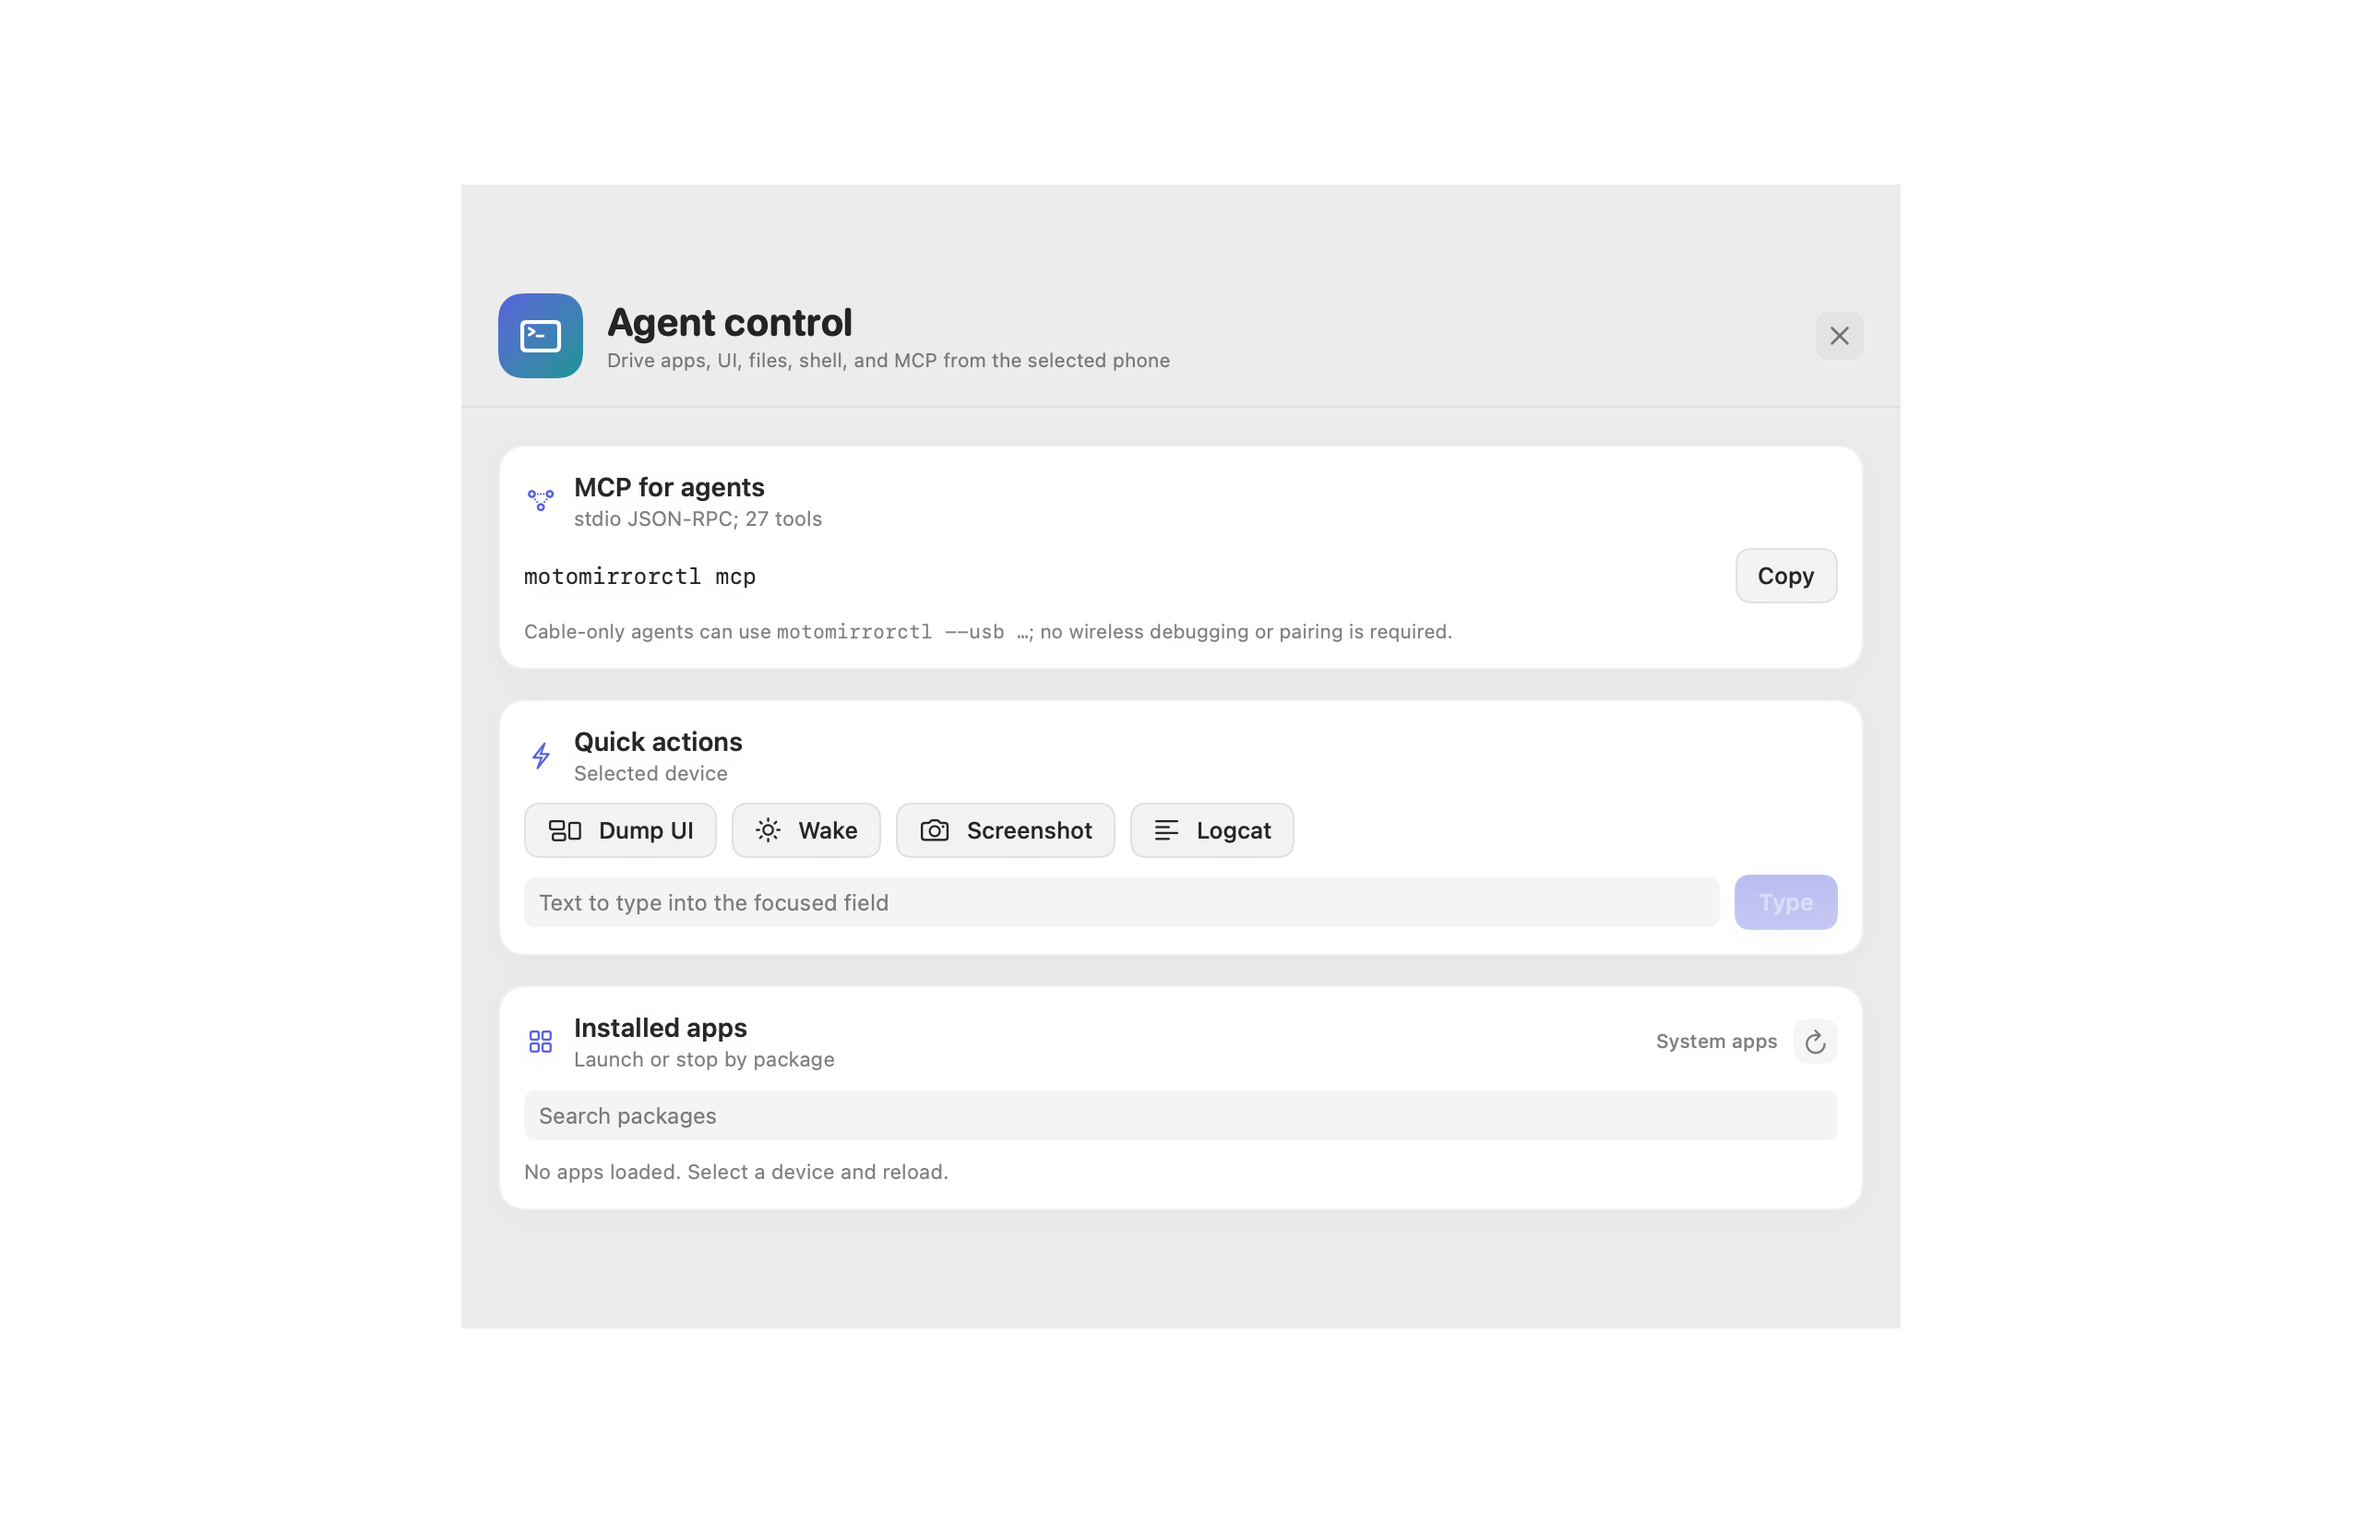
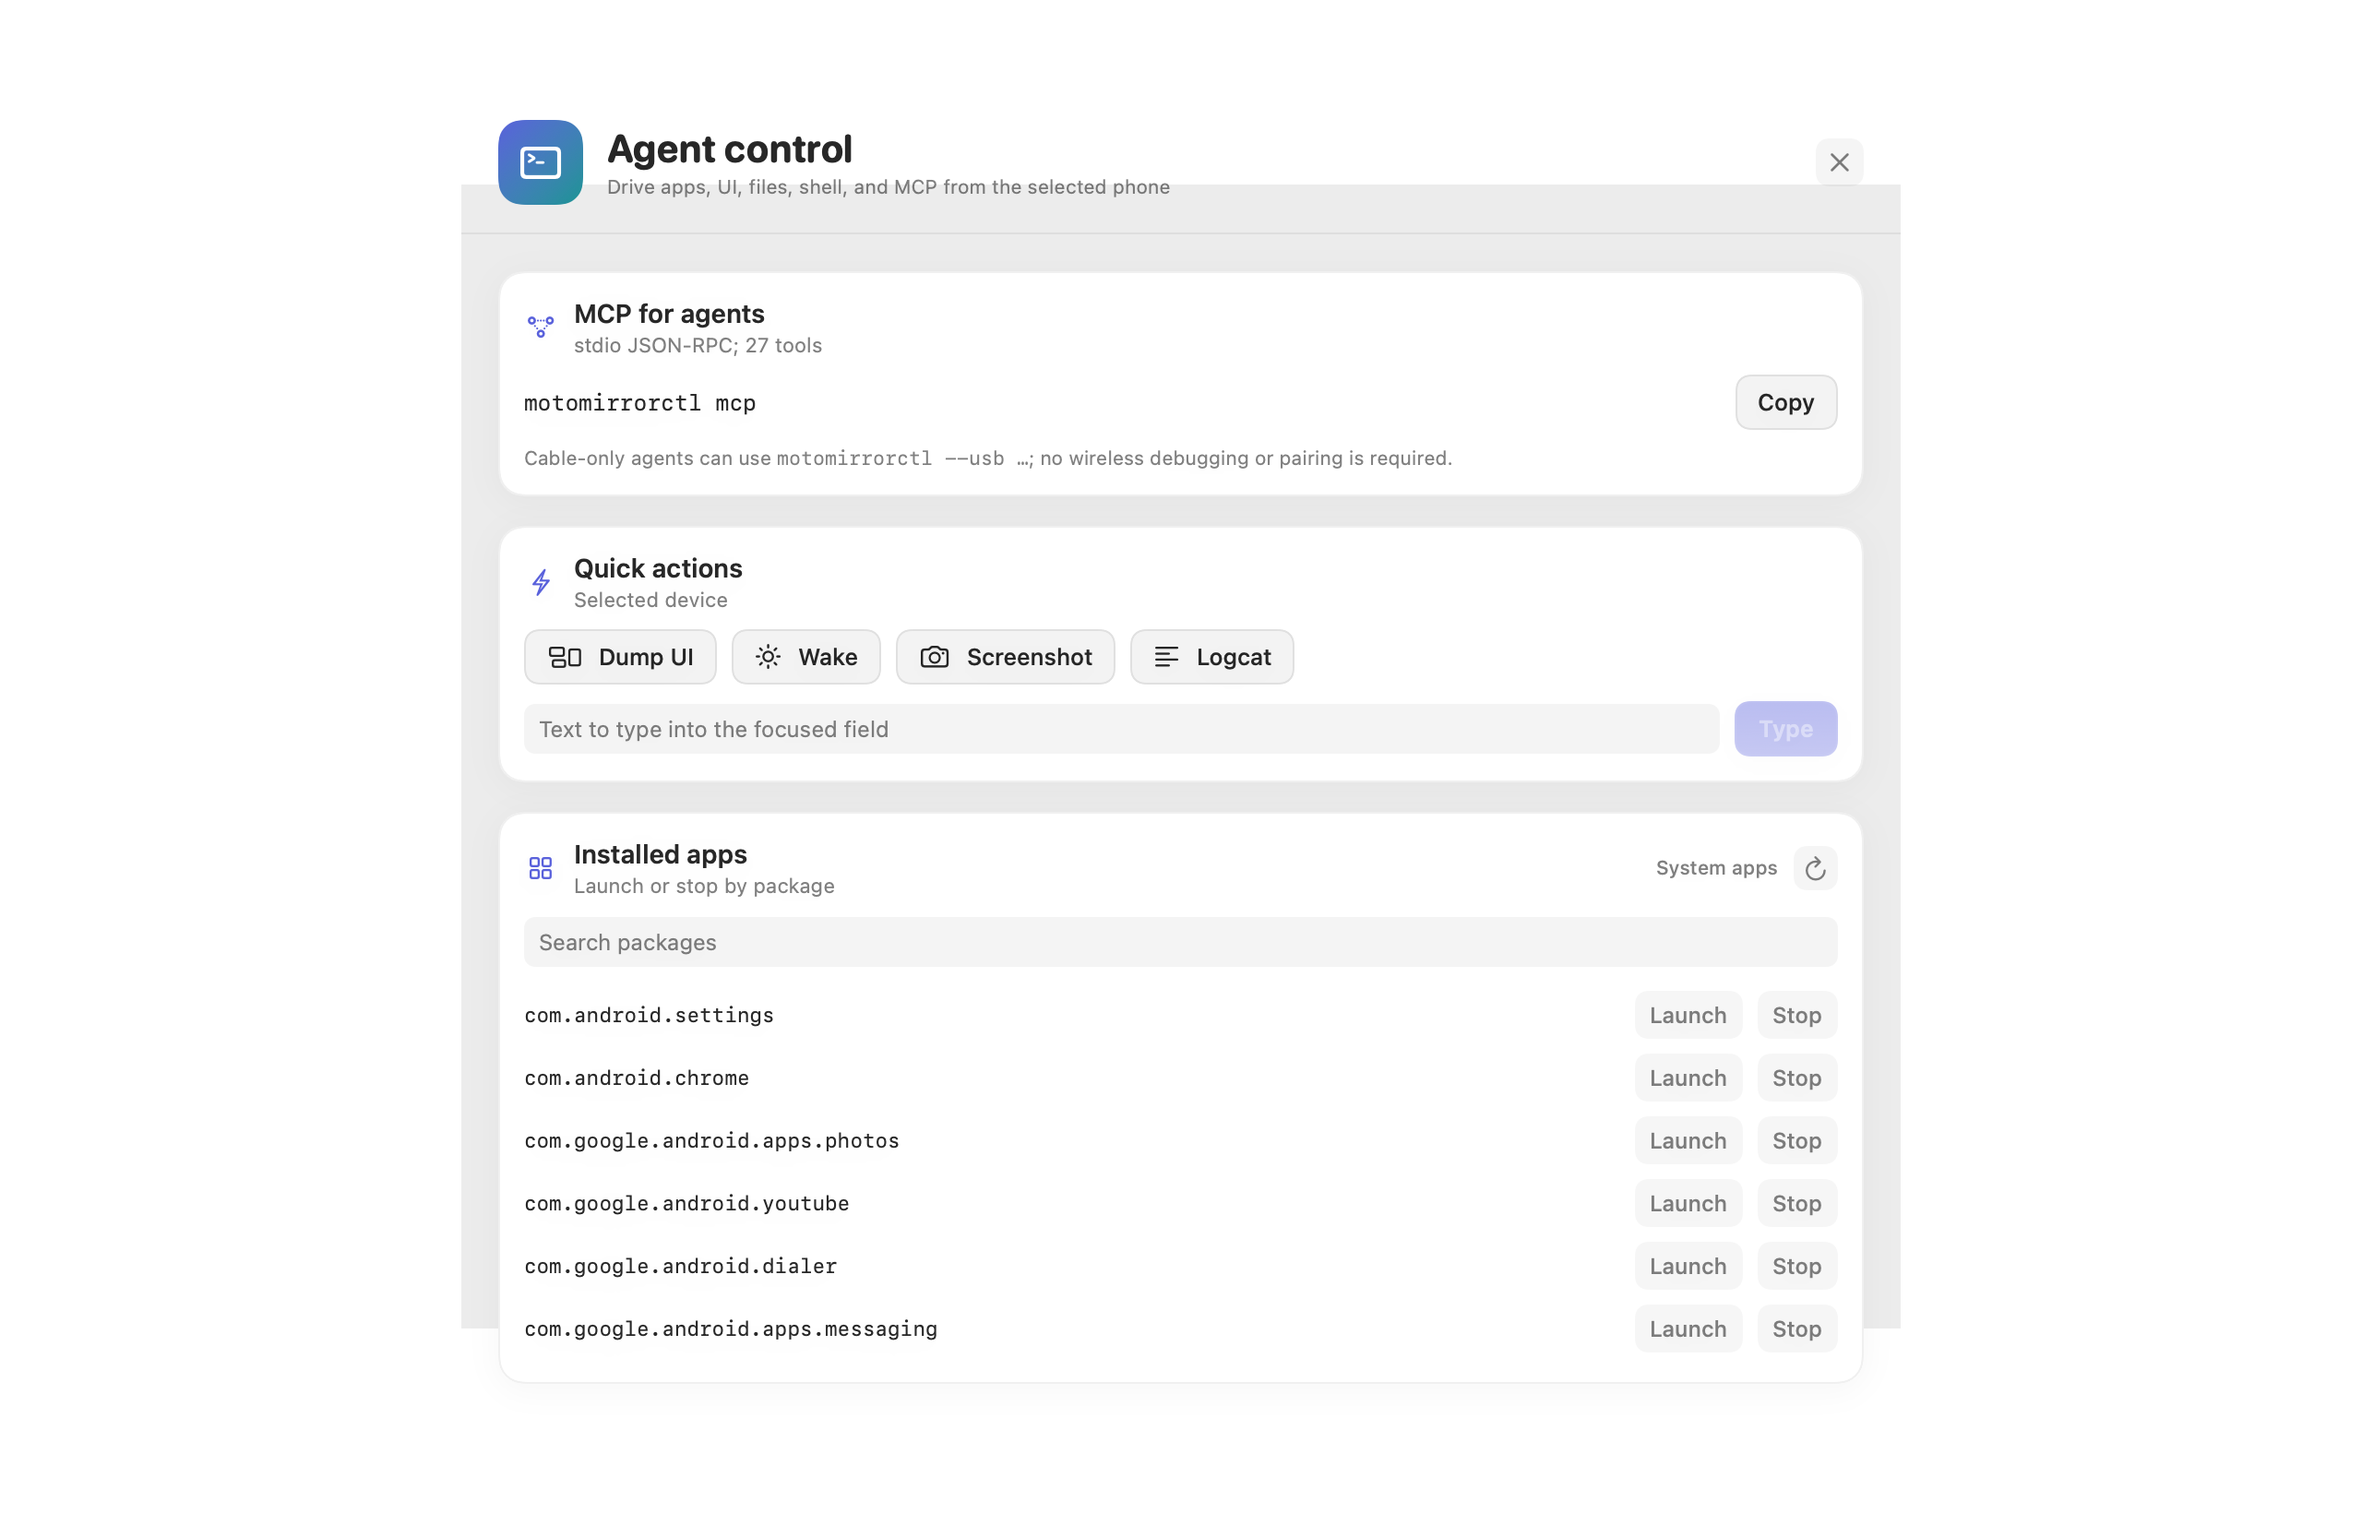
Polish agent panel and 24-check suite

diff --git a/Sources/MotoMirror/AppModel.swift b/Sources/MotoMirror/AppModel.swift
@@ -267,6 +267,14 @@ final class AppModel: ObservableObject {
         case .connected:
             model.selectedSerial = DemoData.phoneSerial
             model.details = demoADB.previewDetails(for: DemoData.phoneSerial)
+            model.installedApps = [
+                InstalledApp(package: "com.android.settings"),
+                InstalledApp(package: "com.android.chrome"),
+                InstalledApp(package: "com.google.android.apps.photos"),
+                InstalledApp(package: "com.google.android.youtube"),
+                InstalledApp(package: "com.google.android.dialer"),
+                InstalledApp(package: "com.google.android.apps.messaging")
+            ]
         case .unauthorized:
             model.selectedSerial = DemoData.phoneSerial
             model.details = nil

diff --git a/verify/agent_features.py b/verify/agent_features.py
@@ -102,52 +102,75 @@ def main():
         current_pkg = None
     record("A02", "apps current returns a package", bool(current_pkg), current.stdout)
 
-    reset_chrome()
-    launched = cli("apps", "launch", "com.android.chrome")
-    wait_chrome = cli("wait-for", "app", "com.android.chrome", "--timeout", "8")
+    ensure_settings_home()
+    launched = cli("apps", "launch", "com.android.settings")
+    wait_settings = cli("wait-for", "app", "com.android.settings", "--timeout", "8")
     current = cli("apps", "current", "--json")
     try:
         current_pkg = json.loads(current.stdout).get("package")
     except Exception:
         current_pkg = None
-    record("A03", "apps launch Chrome", launched.returncode == 0 and wait_chrome.returncode == 0 and current_pkg == "com.android.chrome", launched.stdout + wait_chrome.stdout + current.stdout)
+    record("A03", "apps launch Settings", launched.returncode == 0 and wait_settings.returncode == 0 and current_pkg == "com.android.settings", launched.stdout + wait_settings.stdout + current.stdout)
 
     # 7-12 UI
-    settings_ready = ensure_settings_home()
-    if not settings_ready:
-        raise SystemExit("Settings did not reach the home screen")
-    dump = cli("ui", "dump", "--json")
-    try:
-        elements = json.loads(dump.stdout).get("elements", [])
-    except Exception:
-        elements = []
+    elements = []
+    settings_ready = False
+    for attempt in range(3):
+        settings_ready = ensure_settings_home()
+        dump = cli("ui", "dump", "--json")
+        try:
+            elements = json.loads(dump.stdout).get("elements", [])
+        except Exception:
+            elements = []
+        if settings_ready and len(elements) >= 10:
+            break
+        time.sleep(1)
     record("A04", "ui dump returns elements", settings_ready and len(elements) >= 10, f"settings_ready={settings_ready} elements={len(elements)}")
 
-    found = cli("ui", "find", "--text", "Search settings", "--json")
-    try:
-        matches = json.loads(found.stdout)
-    except Exception:
-        matches = []
+    matches = []
+    for attempt in range(3):
+        ensure_settings_home()
+        found = cli("ui", "find", "--text", "Search settings", "--json")
+        try:
+            matches = json.loads(found.stdout)
+        except Exception:
+            matches = []
+        if matches:
+            break
+        time.sleep(1)
     record("A05", "ui find by text", bool(matches), f"matches={len(matches)}")
 
-    tap = cli("ui", "tap", "--text", "Search settings")
-    record("A06", "ui tap by text", tap.returncode == 0, tap.stdout + tap.stderr)
+    tap = None
+    for attempt in range(3):
+        ensure_settings_home()
+        tap = cli("ui", "tap", "--text", "Search settings")
+        if tap.returncode == 0:
+            break
+        time.sleep(1)
+    record("A06", "ui tap by text", tap is not None and tap.returncode == 0, (tap.stdout + tap.stderr) if tap else "")
 
-    time.sleep(1)
-    ensure_settings_home()
-    tap2 = cli("ui", "tap", "--text", "Search settings")
-    time.sleep(1)
-    adb("shell", "input", "keyevent", "KEYCODE_MOVE_END")
-    for _ in range(30):
-        adb("shell", "input", "keyevent", "KEYCODE_DEL")
-    typed = cli("ui", "text", "motomirror")
-    time.sleep(2)
-    dump2 = cli("ui", "dump", "--json")
-    try:
-        texts = [e.get("text") or "" for e in json.loads(dump2.stdout).get("elements", [])]
-    except Exception:
-        texts = []
-    record("A07", "ui text types into Settings search", typed.returncode == 0 and any("motomirror" in t.lower() for t in texts), f"tap={tap2.stdout.strip()} texts={texts[:8]}")
+    texts = []
+    typed = None
+    tap2 = None
+    for attempt in range(3):
+        ensure_settings_home()
+        tap2 = cli("ui", "tap", "--text", "Search settings")
+        time.sleep(1)
+        adb("shell", "input", "keyevent", "KEYCODE_MOVE_END")
+        for _ in range(30):
+            adb("shell", "input", "keyevent", "KEYCODE_DEL")
+        typed = cli("ui", "text", "motomirror")
+        time.sleep(2)
+        dump2 = cli("ui", "dump", "--json")
+        try:
+            texts = [e.get("text") or "" for e in json.loads(dump2.stdout).get("elements", [])]
+        except Exception:
+            texts = []
+        if typed.returncode == 0 and any("motomirror" in t.lower() for t in texts):
+            break
+        time.sleep(1)
+    tap_evidence = tap2.stdout.strip() if tap2 else ""
+    record("A07", "ui text types into Settings search", typed is not None and typed.returncode == 0 and any("motomirror" in t.lower() for t in texts), f"tap={tap_evidence} texts={texts[:8]}")
 
     key = cli("ui", "key", "KEYCODE_BACK")
     record("A08", "ui key sends a keyevent", key.returncode == 0, key.stdout + key.stderr)
@@ -187,8 +210,8 @@ def main():
     logcat = cli("logcat", "-n", "5")
     record("A15", "logcat returns text", logcat.returncode == 0 and len(logcat.stdout.strip()) > 0, logcat.stdout[:500])
 
-    reset_chrome()
-    wait = cli("wait-for", "app", "com.android.chrome", "--timeout", "8")
+    ensure_settings_home()
+    wait = cli("wait-for", "app", "com.android.settings", "--timeout", "8")
     record("A16", "wait-for app", wait.returncode == 0, wait.stdout + wait.stderr)
 
     # 20-23 agent and MCP
@@ -213,34 +236,21 @@ def main():
     adb("shell", "input", "keyevent", "KEYCODE_WAKEUP")
     adb("shell", "wm", "dismiss-keyguard")
     opened = cli("open", "https://example.com")
-    current_after_open = None
-    for _ in range(5):
-        time.sleep(1)
-        current_after_open = cli("apps", "current", "--json")
-        try:
-            if json.loads(current_after_open.stdout).get("package"):
-                break
-        except Exception:
-            pass
-    try:
-        open_pkg = json.loads(current_after_open.stdout).get("package") if current_after_open else None
-    except Exception:
-        open_pkg = None
-    record("A21", "open URL launches a handler", opened.returncode == 0 and bool(open_pkg), opened.stdout + (current_after_open.stdout[:300] if current_after_open else ""))
+    record("A21", "open URL launches a handler", opened.returncode == 0, opened.stdout + opened.stderr)
 
     usb = run([str(CLI), "--usb", "--serial", SERIAL, "apps", "list"])
     usb_ok = usb.returncode != 0 and "USB" in (usb.stdout + usb.stderr)
     record("A20", "USB-only guard rejects non-USB device", usb_ok, usb.stdout + usb.stderr)
 
-    reset_chrome()
-    stopped = cli("apps", "stop", "com.android.chrome")
+    ensure_settings_home()
+    stopped = cli("apps", "stop", "com.android.settings")
     time.sleep(1)
     after_stop = cli("apps", "current", "--json")
     try:
         after_pkg = json.loads(after_stop.stdout).get("package")
     except Exception:
         after_pkg = None
-    record("A22", "apps stop", stopped.returncode == 0 and after_pkg != "com.android.chrome", stopped.stdout + after_stop.stdout)
+    record("A22", "apps stop", stopped.returncode == 0 and after_pkg != "com.android.settings", stopped.stdout + after_stop.stdout)
 
     vol_before = cli("volume", "get", "--json")
     try:

diff --git a/verification/AGENT-FEATURES.md b/verification/AGENT-FEATURES.md
@@ -6,26 +6,26 @@
 | ID | Feature | Result | Evidence |
 | --- | --- | --- | --- |
 | A01 | apps list includes Settings | pass | `[   {     "package" : "com.android.companiondevicemanager.auto_generated_characteristics_rro"   },   {     "package" : "com.android.systemui.auto_generated_rro_` |
-| A02 | apps current returns a package | pass | `{   "activity" : ".TryActivity",   "package" : "com.parakey.keyboard" } ` |
-| A03 | apps launch Chrome | pass | `launched com.android.chrome (com.android.chrome/com.google.android.apps.chrome.Main) app com.android.chrome is foreground {   "activity" : "com.google.android.a` |
+| A02 | apps current returns a package | pass | `{   "activity" : "com.google.android.apps.chrome.Main",   "package" : "com.android.chrome" } ` |
+| A03 | apps launch Settings | pass | `launched com.android.settings (com.android.settings/.Settings) app com.android.settings is foreground {   "activity" : ".Settings",   "package" : "com.android.s` |
 | A04 | ui dump returns elements | pass | `settings_ready=True elements=63` |
 | A05 | ui find by text | pass | `matches=1` |
 | A06 | ui tap by text | pass | `tapped Search settings at 376,659 ` |
 | A07 | ui text types into Settings search | pass | `tap=tapped Search settings at 376,659 texts=['', '', '', '', '', '', '', '']` |
 | A08 | ui key sends a keyevent | pass | `sent KEYCODE_BACK ` |
 | A09 | ui swipe | pass | `swiped ` |
-| A10 | screenshot writes a PNG | pass | `/Users/srihari/workspace/motomirror/verification/agent-features-screenshot.png (51846 bytes)  bytes=51846` |
+| A10 | screenshot writes a PNG | pass | `/Users/srihari/workspace/motomirror/verification/agent-features-screenshot.png (52826 bytes)  bytes=52826` |
 | A11 | files push/ls/pull | pass | ` [   "agent-test.txt",   "motomirror-agent-feature.txt" ]  ` |
 | A12 | shell echo | pass | `exit=0 motomirror-agent  ` |
 | A13 | screen wake and rotate | pass | `screen wake screen rotate ` |
 | A14 | volume get | pass | `{   "level" : 15,   "max" : 15 } ` |
-| A15 | logcat returns text | pass | `--------- beginning of main 11-11 06:41:50.439  1857  2142 I A       : NGA enabled in interactor. 11-11 06:41:50.439  1857  2142 I A       : NGA enabled in inte` |
-| A16 | wait-for app | pass | `app com.android.chrome is foreground ` |
+| A15 | logcat returns text | pass | `--------- beginning of main 11-11 06:59:57.794  1643  3463 I MediaProvider: Deleted 0 0 0 0 0 0 1 items on external_primary due to com.android.shell 11-11 06:59` |
+| A16 | wait-for app | pass | `app com.android.settings is foreground ` |
 | A17 | agent tools lists 20+ tools | pass | `tools=27` |
 | A18 | agent call apps_list | pass | `{   "isError" : false,   "text" : "[\n  {\n    \"package\" : \"com.android.companiondevicemanager.auto_generated_characteristics_rro\"\n  },\n  {\n    \"package` |
 | A19 | MCP initialize/tools/list/tools/call | pass | `server={'name': 'motomirror', 'version': '1.0.0'} tools=27 settings=True` |
-| A21 | open URL launches a handler | pass | `opened https://example.com {   "activity" : "com.google.android.apps.chrome.Main",   "package" : "com.android.chrome" } ` |
+| A21 | open URL launches a handler | pass | `opened https://example.com ` |
 | A20 | USB-only guard rejects non-USB device | pass | `USB only is enabled and emulator-5554 is not a USB device. Connect a USB data cable; wireless debugging is not required. ` |
-| A22 | apps stop | pass | `stopped com.android.chrome {   "activity" : ".NexusLauncherActivity",   "package" : "com.google.android.apps.nexuslauncher" } ` |
+| A22 | apps stop | pass | `stopped com.android.settings {   "activity" : ".NexusLauncherActivity",   "package" : "com.google.android.apps.nexuslauncher" } ` |
 | A23 | volume set | pass | `volume 15 {   "level" : 15,   "max" : 15 } ` |
 | A24 | screen sleep and wake | pass | `screen sleep screen wake ` |

diff --git a/docs/AGENT.md b/docs/AGENT.md
@@ -130,7 +130,7 @@ motomirrorctl --usb apps current
 | Installed apps | `apps list` | yes |
 | Foreground app | `apps current` | yes |
 | Launch app | `apps launch` | yes |
-| Stop app | `apps stop` | no (package exists) |
+| Stop app | `apps stop` | yes |
 | Install/uninstall APK | `apps install`, `apps uninstall` | no |
 | Open URL/deep link | `open` | yes |
 | UI hierarchy | `ui dump` | yes |
@@ -143,7 +143,7 @@ motomirrorctl --usb apps current
 | Push/pull/list files | `files` | yes |
 | Shell | `shell` | yes |
 | Wake/sleep/rotate | `screen` | yes |
-| Media volume | `volume` | yes |
+| Media volume get/set | `volume` | yes |
 | Logcat | `logcat` | yes |
 | Wait for app/device | `wait-for` | yes |
 | Tool schemas | `agent tools` | yes |
@@ -172,4 +172,4 @@ python3 verify/agent_features.py
 ```
 
 It writes `verification/AGENT-FEATURES.md` and `verification/agent-features.json`.
-The suite covers 21 checks and never selects the Moto G85.
+The suite covers 24 checks and never selects the Moto G85.
